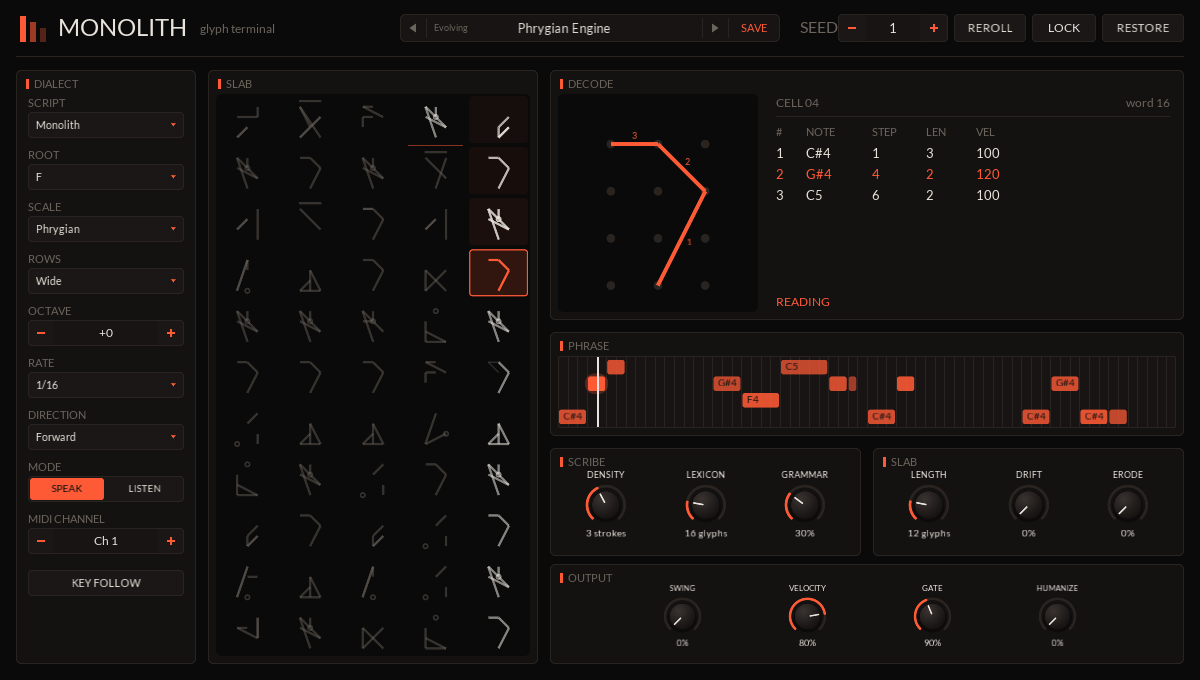
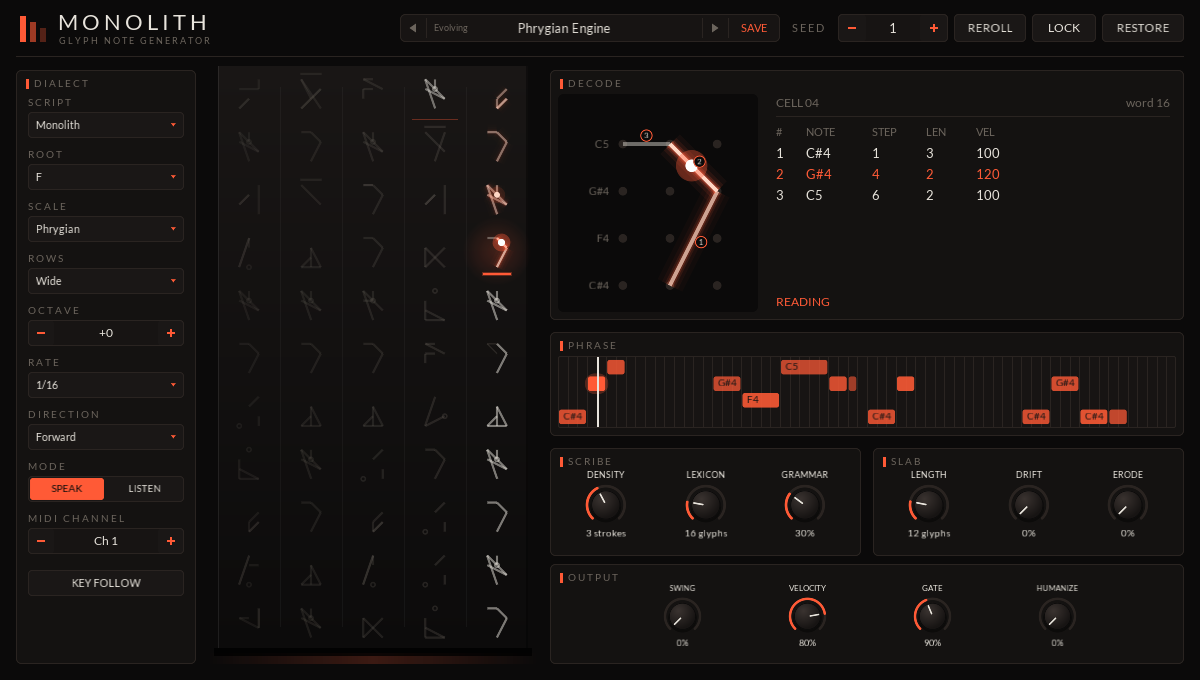
Monolith: strokes light as they play, glowing glyphs, slab like the concept (#97)
The glyph being read now lights stroke by stroke in time with its notes,
with a pen point running along each sounding stroke; played strokes stay
lit and the rest wait unlit. Lit strokes burn with an ember glow around a
peach core, in the slab and the decode view.

The slab is drawn as a standing stone like the concept art: a dark face lit
from above on an ember ground, columns fading toward the ones read last,
and the current glyph glowing over an ember underline. The decode view
labels each row with its note, number badges are ringed, and titles are set
in wide caps.

Claude-Session: https://claude.ai/code/session_01Bsw8iDc7F4C3tMK6LpbFvF

diff --git a/plugins/monolith/src/editor.cpp b/plugins/monolith/src/editor.cpp
@@ -52,6 +52,8 @@ constexpr unsigned kText = 0xffe8e4dc;
 constexpr unsigned kDim = 0xff6b645c;
 constexpr unsigned kEmber = 0xffff5a36;
 constexpr unsigned kAsh = 0xff3a3330;
+// The hot core of a lit stroke, inside its ember glow.
+constexpr unsigned kPeach = 0xffffd6c4;
 
 unsigned withAlpha(unsigned color, float alpha) {
    return (color & 0x00ffffffu) | (static_cast<unsigned>(std::clamp(alpha, 0.0f, 1.0f) * 255.0f) << 24);
@@ -161,14 +163,60 @@ void drawStroke(visage::Canvas &c, const GlyphBox &box, Orthography o, Stroke s,
    }
 }
 
+// The point a fraction `t` of the way along a stroke as its script draws it: along the corner of a
+// trace, around a ring for a Halo arc, straight otherwise.
+Point strokePoint(const GlyphBox &box, Orthography o, Stroke s, float t) {
+   const Point a = box.node(o, s.from), b = box.node(o, s.to);
+   t = std::clamp(t, 0.0f, 1.0f);
+   const auto lerp = [](Point p, Point q, float k) { return Point{p.x + (q.x - p.x) * k, p.y + (q.y - p.y) * k}; };
+   switch (styleOf(o)) {
+   case StrokeStyle::Trace: {
+      const Point corner{b.x, a.y};
+      const float across = std::fabs(b.x - a.x), down = std::fabs(b.y - a.y), total = across + down;
+      if (total <= 0.0f)
+         return a;
+      const float d = t * total;
+      return d <= across ? lerp(a, corner, across > 0.0f ? d / across : 0.0f) : lerp(corner, b, (d - across) / down);
+   }
+   case StrokeStyle::Arc:
+      if (rowOf(s.from) == rowOf(s.to)) {
+         const Point centre = box.at({kHaloCenterX, kHaloCenterY});
+         const float r = kHaloRadius[rowOf(s.from)] * box.unit;
+         const float angle = haloAngle(s.from) + (haloAngle(s.to) - haloAngle(s.from)) * t;
+         return {centre.x + r * std::sin(angle), centre.y - r * std::cos(angle)};
+      }
+      return lerp(a, b, t);
+   default: return lerp(a, b, t);
+   }
+}
+
 struct GlyphStyle {
+   // Unlit strokes. While the glyph plays, the ones still to come.
    unsigned color = kText;
+   // While the glyph plays: how far into its 16 steps the voice is (negative when it isn't playing).
+   // Each stroke lights as its note sounds, with a pen point running along it, and stays lit after.
+   float step = -1.0f;
+   unsigned lit = kEmber;
+   // How brightly the whole glyph burns when it isn't playing stroke by stroke: 0 drawn plain in
+   // `color`, 1 fully lit like a sounding stroke.
+   float glow = 0.0f;
    // Eroded strokes are drawn as faint scars in this colour; 0 leaves them out.
    unsigned scar = 0;
    float thickness = 2.0f;
    bool nodes = false;
    bool numbers = false;
 };
+
+// A stroke burning at `heat` (0..1): soft ember halos widening around a peach core.
+void drawLitStroke(visage::Canvas &c, const GlyphBox &box, Orthography o, Stroke s, float t, unsigned lit, float heat) {
+   const float halos[][2] = {{7.0f, 0.05f}, {4.5f, 0.09f}, {2.8f, 0.18f}, {1.8f, 0.35f}};
+   for (const auto &h : halos) {
+      c.setColor(withAlpha(lit, h[1] * heat));
+      drawStroke(c, box, o, s, t * h[0]);
+   }
+   c.setColor(withAlpha(kPeach, 0.35f + 0.65f * heat));
+   drawStroke(c, box, o, s, t);
+}
 
 void drawGlyph(visage::Canvas &c, const Glyph &g, int visible, Orthography o, const GlyphBox &box, const GlyphStyle &style) {
    const float t = style.thickness;
@@ -193,16 +241,72 @@ void drawGlyph(visage::Canvas &c, const Glyph &g, int visible, Orthography o, co
          c.setColor(style.scar);
          drawStroke(c, box, o, g.strokes[i], t * 0.6f);
       }
-   c.setColor(style.color);
+   // Each stroke's note, for lighting them in time. A stroke past the window never plays.
+   float progress[kMaxStrokes];
+   float dotProgress = -1.0f;
+   for (float &p : progress)
+      p = -1.0f;
+   if (style.step >= 0.0f) {
+      const GlyphNotes notes = decode(g, visible);
+      for (int i = 0; i < notes.count; ++i) {
+         const GlyphNote &n = notes.notes[i];
+         const float p = (style.step - n.start) / static_cast<float>(std::max(1, n.length));
+         if (n.ghost)
+            dotProgress = p;
+         else
+            progress[n.stroke] = p;
+      }
+   }
+   for (int i = 0; i < visible && i < g.count; ++i) {
+      const float p = progress[i];
+      if (p >= 0.0f && p < 1.0f)
+         drawLitStroke(c, box, o, g.strokes[i], t, style.lit, 1.0f);
+      else if (p >= 1.0f)
+         drawLitStroke(c, box, o, g.strokes[i], t, style.lit, 0.55f);
+      else if (style.step < 0.0f && style.glow > 0.0f)
+         drawLitStroke(c, box, o, g.strokes[i], t, style.lit, style.glow);
+      else {
+         c.setColor(style.color);
+         drawStroke(c, box, o, g.strokes[i], t);
+      }
+   }
+   // The pen points of the sounding strokes, on top.
    for (int i = 0; i < visible && i < g.count; ++i)
-      drawStroke(c, box, o, g.strokes[i], t);
+      if (progress[i] >= 0.0f && progress[i] < 1.0f) {
+         const Point p = strokePoint(box, o, g.strokes[i], progress[i]);
+         const float d = t * 4.0f;
+         c.setColor(withAlpha(style.lit, 0.35f));
+         c.circle(p.x - d, p.y - d, d * 2.0f);
+         c.setColor(0xffffffffu);
+         c.circle(p.x - d * 0.4f, p.y - d * 0.4f, d * 0.8f);
+      }
    if (g.dot >= 0 && g.dot < kNodes) {
       const Point p = box.node(o, g.dot);
       const float d = t * 2.6f;
-      c.ring(p.x - d * 0.5f, p.y - d * 0.5f, d, std::max(1.0f, t * 0.7f));
+      const bool sounding = dotProgress >= 0.0f && dotProgress < 1.0f;
+      const bool burning = sounding || (style.step < 0.0f && style.glow > 0.0f);
+      if (burning || dotProgress >= 1.0f) {
+         c.setColor(withAlpha(style.lit, 0.2f * (sounding ? 1.0f : 0.6f)));
+         c.circle(p.x - d * 1.4f, p.y - d * 1.4f, d * 2.8f);
+         c.setColor(kPeach);
+      }
+      else
+         c.setColor(style.color);
+      if (burning)
+         c.circle(p.x - d * 0.5f, p.y - d * 0.5f, d);
+      else
+         c.ring(p.x - d * 0.5f, p.y - d * 0.5f, d, std::max(1.0f, t * 0.7f));
    }
    if (g.bar) {
       const Point l = box.at({-0.1f, -0.55f}), r = box.at({2.1f, -0.55f});
+      const float heat = style.step >= 0.0f ? 0.55f : style.glow;
+      if (heat > 0.0f) {
+         c.setColor(withAlpha(style.lit, 0.18f * heat));
+         c.segment(l.x, l.y, r.x, r.y, t * 3.5f, true);
+         c.setColor(withAlpha(kPeach, 0.35f + 0.65f * heat));
+      }
+      else
+         c.setColor(style.color);
       c.segment(l.x, l.y, r.x, r.y, t, false);
    }
    if (style.numbers)
@@ -210,11 +314,13 @@ void drawGlyph(visage::Canvas &c, const Glyph &g, int visible, Orthography o, co
          const Point a = box.node(o, g.strokes[i].from), b = box.node(o, g.strokes[i].to);
          const float dx = b.x - a.x, dy = b.y - a.y, len = std::max(0.001f, std::sqrt(dx * dx + dy * dy));
          const float mx = a.x + dx * 0.5f - dy / len * box.unit * 0.18f, my = a.y + dy * 0.5f + dx / len * box.unit * 0.18f;
-         const float d = box.unit * 0.24f;
+         const float d = box.unit * 0.26f;
          c.setColor(kBackground);
          c.circle(mx - d * 0.5f, my - d * 0.5f, d);
          c.setColor(kEmber);
-         c.text(std::to_string(i + 1), ui::font(d * 0.8f), visage::Font::kCenter, mx - d * 0.5f, my - d * 0.5f, d, d);
+         c.ring(mx - d * 0.5f, my - d * 0.5f, d, std::max(1.0f, d * 0.08f));
+         c.setColor(kText);
+         c.text(std::to_string(i + 1), ui::font(d * 0.62f), visage::Font::kCenter, mx - d * 0.5f, my - d * 0.5f, d, d);
       }
 }
 
@@ -227,55 +333,96 @@ inline void cellPlace(int i, int &column, int &row) {
 }
 
 class SlabView : public visage::Frame {
+   // Room either side of the slab's face, and under it for the ground.
+   static constexpr float kSide = 10.0f, kBase = 22.0f;
+
 public:
    explicit SlabView(const SlabFrame &frame) : frame_(frame) {}
 
    std::function<void(int)> onSelect, onJump, onReroll;
    int selected = -1;
 
+   // The slab stands as a block of dark stone on a faint ember ground; the glyphs are cut into its
+   // face, the most recently read burning and the rest pale, fading toward the columns read last.
    void draw(visage::Canvas &c) override {
       const float w = width(), h = height();
-      const float cw = w / kSlabColumns, ch = h / kSlabRows;
-      c.setColor(kBackground);
-      c.roundedRectangle(0, 0, w, h, 6);
+      const float faceX = kSide, faceW = w - 2 * kSide, faceH = h - kBase;
+      const float cw = faceW / kSlabColumns, ch = faceH / kSlabRows;
+
+      // Ground glow and the slab's shadow on it.
+      c.setColor(visage::Brush::horizontal(visage::Color(0x00ff5a36), visage::Color(0x33ff5a36)));
+      c.fill(0, h - kBase * 0.75f, w * 0.5f, kBase * 0.5f);
+      c.setColor(visage::Brush::horizontal(visage::Color(0x33ff5a36), visage::Color(0x00ff5a36)));
+      c.fill(w * 0.5f, h - kBase * 0.75f, w * 0.5f, kBase * 0.5f);
+      c.setColor(0xcc000000);
+      c.fill(faceX - 4, faceH, faceW + 8, kBase * 0.35f);
+
+      // The face: lighter at the top, as if lit from above, with a bright left edge.
+      c.setColor(visage::Brush::vertical(visage::Color(0xff191615), visage::Color(0xff0c0b0b)));
+      c.fill(faceX, 0, faceW, faceH);
+      c.setColor(0x14ffffff);
+      c.fill(faceX, 0, 1.5f, faceH);
+      c.setColor(0x66000000);
+      c.fill(faceX + faceW - 2, 0, 2, faceH);
+      for (int k = 1; k < kSlabColumns; ++k) {
+         c.setColor(0x0affffff);
+         c.fill(faceX + k * cw, ch * 0.4f, 1, faceH - ch * 0.8f);
+      }
+
       for (int i = 0; i < kCells; ++i) {
          int column, row;
          cellPlace(i, column, row);
-         const float x = column * cw, y = row * ch;
+         const float x = faceX + column * cw, y = row * ch;
          const bool inUse = i < frame_.length;
          const bool current = frame_.playing && i == frame_.current;
          float trail = 0.0f;
          for (int k = 0; k < kHistory; ++k)
             if (frame_.history[k] == i && frame_.playing)
                trail = std::max(trail, (k + 1) / static_cast<float>(kHistory));
-         if (current) {
-            c.setColor(withAlpha(kEmber, 0.16f));
-            c.roundedRectangle(x + 2, y + 2, cw - 4, ch - 4, 4);
-            c.setColor(kEmber);
-            c.roundedRectangleBorder(x + 2, y + 2, cw - 4, ch - 4, 4, 1.2f);
-         }
-         else if (trail > 0.0f && inUse) {
-            c.setColor(withAlpha(kEmber, 0.08f * trail));
-            c.roundedRectangle(x + 2, y + 2, cw - 4, ch - 4, 4);
-         }
-         if (i == selected) {
-            c.setColor(kText);
-            c.roundedRectangleBorder(x + 2, y + 2, cw - 4, ch - 4, 4, 1.0f);
-         }
+         // Columns read later are more worn: the first (right) is clearest.
+         const float wear = 1.0f - 0.12f * static_cast<float>(i / kSlabRows);
          const Cell &cell = frame_.cells[i];
          GlyphStyle style;
-         style.thickness = std::max(1.2f, ch * 0.045f);
-         style.color = current ? kEmber : inUse ? withAlpha(kText, 0.55f + 0.35f * trail) : withAlpha(kDim, 0.45f);
-         style.scar = inUse ? withAlpha(kDim, 0.35f) : 0;
-         const GlyphBox box = GlyphBox::fit(x + 4, y + 4, cw - 8, ch - 8);
+         style.thickness = std::max(1.2f, ch * 0.042f);
+         style.color = current ? withAlpha(kText, 0.35f)
+                       : inUse ? withAlpha(kText, (0.5f + 0.3f * trail) * wear)
+                               : withAlpha(kDim, 0.3f * wear);
+         style.step = current ? frame_.step : -1.0f;
+         style.glow = current ? 0.0f : trail > 0.0f && inUse ? 0.25f * trail : 0.0f;
+         style.scar = inUse ? withAlpha(kDim, 0.25f * wear) : 0;
+         const GlyphBox box = GlyphBox::fit(x + 6, y + 5, cw - 12, ch - 12);
+         if (current) {
+            const float d = std::min(cw, ch) * 1.3f;
+            c.setColor(visage::Brush::radial(visage::Color(0x30ff5a36), visage::Color(0x00ff5a36),
+                                             {x + cw * 0.5f, y + ch * 0.5f}, d * 0.5f));
+            c.fill(x + cw * 0.5f - d * 0.5f, y + ch * 0.5f - d * 0.5f, d, d);
+         }
          drawGlyph(c, cell.glyph, cell.visible(), frame_.orthography, box, style);
+         if (current) {
+            c.setColor(withAlpha(kEmber, 0.3f));
+            c.fill(x + cw * 0.28f - 1, y + ch - 6, cw * 0.44f + 2, 4);
+            c.setColor(kEmber);
+            c.fill(x + cw * 0.28f, y + ch - 5, cw * 0.44f, 2);
+         }
+         if (i == selected) {
+            c.setColor(withAlpha(kPeach, 0.8f));
+            const float l = 6, x0 = x + 3, y0 = y + 2, x1 = x + cw - 3, y1 = y + ch - 2;
+            c.fill(x0, y0, l, 1);
+            c.fill(x0, y0, 1, l);
+            c.fill(x1 - l, y0, l, 1);
+            c.fill(x1 - 1, y0, 1, l);
+            c.fill(x0, y1 - 1, l, 1);
+            c.fill(x0, y1 - l, 1, l);
+            c.fill(x1 - l, y1 - 1, l, 1);
+            c.fill(x1 - 1, y1 - l, 1, l);
+         }
       }
       // The line where the read part ends.
       if (frame_.length < kCells) {
          int column, row;
          cellPlace(frame_.length, column, row);
-         c.setColor(withAlpha(kEmber, 0.5f));
-         c.fill(column * cw + 4, row * ch, cw - 8, 1.0f);
+         c.setColor(withAlpha(kEmber, 0.35f));
+         c.fill(faceX + column * cw + 8, row * ch, cw - 16, 1.0f);
       }
    }
 
@@ -296,8 +443,11 @@ public:
    }
 
    int cellAt(float px, float py) const {
-      const int column = static_cast<int>(px / (width() / kSlabColumns));
-      const int row = static_cast<int>(py / (height() / kSlabRows));
+      const float faceW = width() - 2 * kSide, faceH = height() - kBase;
+      if (px < kSide || py >= faceH)
+         return -1;
+      const int column = static_cast<int>((px - kSide) / (faceW / kSlabColumns));
+      const int row = static_cast<int>(py / (faceH / kSlabRows));
       if (column < 0 || column >= kSlabColumns || row < 0 || row >= kSlabRows)
          return -1;
       return (kSlabColumns - 1 - column) * kSlabRows + row;
@@ -324,11 +474,21 @@ public:
       const Cell &x = frame_.cells[cell];
       GlyphStyle style;
       style.thickness = std::max(2.5f, h * 0.018f);
-      style.color = frame_.playing && cell == frame_.current ? kEmber : kText;
+      style.color = kText;
+      style.step = frame_.playing && cell == frame_.current ? frame_.step : -1.0f;
+      style.glow = 0.8f;
+      style.color = withAlpha(kText, 0.45f);
       style.scar = withAlpha(kDim, 0.5f);
       style.nodes = true;
       style.numbers = true;
-      drawGlyph(c, x.glyph, x.visible(), frame_.orthography, box(), style);
+      // Each row's note beside it.
+      const GlyphBox b = box();
+      for (int r = 0; r < kGridRows; ++r) {
+         const Point p = b.node(frame_.orthography, nodeAt(0, r));
+         c.setColor(kDim);
+         c.text(ui::noteName(frame_.rowPitch[r]), ui::font(11), visage::Font::kRight, p.x - b.unit * 0.3f - 40, p.y - 8, 40, 16);
+      }
+      drawGlyph(c, x.glyph, x.visible(), frame_.orthography, b, style);
       if (dragFrom_ >= 0) {
          const Point a = box().node(frame_.orthography, dragFrom_);
          c.setColor(withAlpha(kEmber, 0.7f));
@@ -382,7 +542,7 @@ public:
    }
 
 private:
-   GlyphBox box() const { return GlyphBox::fit(10, 10, width() - 20, height() - 20); }
+   GlyphBox box() const { return GlyphBox::fit(34, 10, width() - 44, height() - 20); }
 
    // The glyph as it stands: eroded strokes are gone for good once it is carved.
    Glyph standing() const {
@@ -498,13 +658,24 @@ private:
    const SlabFrame &frame_;
 };
 
+// Caps set wide, as the slab's labels are cut: "DECODE" becomes "D E C O D E".
+std::string spaced(const std::string &text) {
+   std::string out;
+   for (char ch : text) {
+      if (!out.empty())
+         out += ' ';
+      out += ch;
+   }
+   return out;
+}
+
 // A label over a control in the left strip.
 class Caption : public visage::Frame {
 public:
    explicit Caption(std::string text) : text_(std::move(text)) { setIgnoresMouseEvents(true, false); }
    void draw(visage::Canvas &c) override {
       c.setColor(kDim);
-      c.text(text_, ui::font(height() * 0.78f), visage::Font::kLeft, 0, 0, width(), height());
+      c.text(spaced(text_), ui::font(height() * 0.7f), visage::Font::kLeft, 0, 0, width(), height());
    }
 
 private:
@@ -526,7 +697,7 @@ public:
       c.setColor(kEmber);
       c.fill(10 * s, 9 * s, 3 * s, 10 * s);
       c.setColor(kDim);
-      c.text(title_, ui::font(11 * s), visage::Font::kLeft, 18 * s, 6 * s, width(), 16 * s);
+      c.text(spaced(title_), ui::font(10 * s), visage::Font::kLeft, 18 * s, 6 * s, width(), 16 * s);
    }
 
 private:
@@ -561,9 +732,9 @@ public:
       c.setColor(withAlpha(kEmber, 0.3f));
       c.fill(40 * s, 28 * s, 6 * s, 14 * s);
       c.setColor(kText);
-      c.text("MONOLITH", ui::font(24 * s), visage::Font::kLeft, 58 * s, 10 * s, 200 * s, 36 * s);
+      c.text(spaced("MONOLITH"), ui::font(22 * s), visage::Font::kLeft, 58 * s, 8 * s, 260 * s, 30 * s);
       c.setColor(kDim);
-      c.text("glyph terminal", ui::font(12 * s), visage::Font::kLeft, 200 * s, 14 * s, 160 * s, 30 * s);
+      c.text(spaced("GLYPH NOTE GENERATOR"), ui::font(9 * s), visage::Font::kLeft, 59 * s, 34 * s, 300 * s, 14 * s);
       c.setColor(kEdge);
       c.fill(16 * s, 56 * s, (kDesignWidth - 32) * s, 1 * s);
    }
@@ -622,7 +793,7 @@ private:
       presets.currentName = [this] { return host_.presetName(); };
       presets.setCurrentName = [this](const std::string &n) { host_.setPresetName(n); };
 
-      caption({800, 18, 40, 20}, "SEED");
+      caption({792, 21, 44, 15}, "SEED");
       auto &seed = themed(add<ui::NumberBox>({838, 14, 110, 28}, rangeOf(kSeed, 1.0)));
       seed.setStepButtons(true);
       seed.valueText = [](double v) { return text(kSeed, v); };
@@ -692,8 +863,7 @@ private:
    }
 
    void buildSlab() {
-      add<Plate>({208, 70, 330, 594}, "SLAB");
-      slab_ = &add<SlabView>({216, 94, 314, 562}, frame_);
+      slab_ = &add<SlabView>({208, 66, 330, 604}, frame_);
       slab_->onSelect = [this](int i) { selected_ = selected_ == i ? -1 : i; refresh(); };
       slab_->onJump = [this](int i) {
          Command c;
